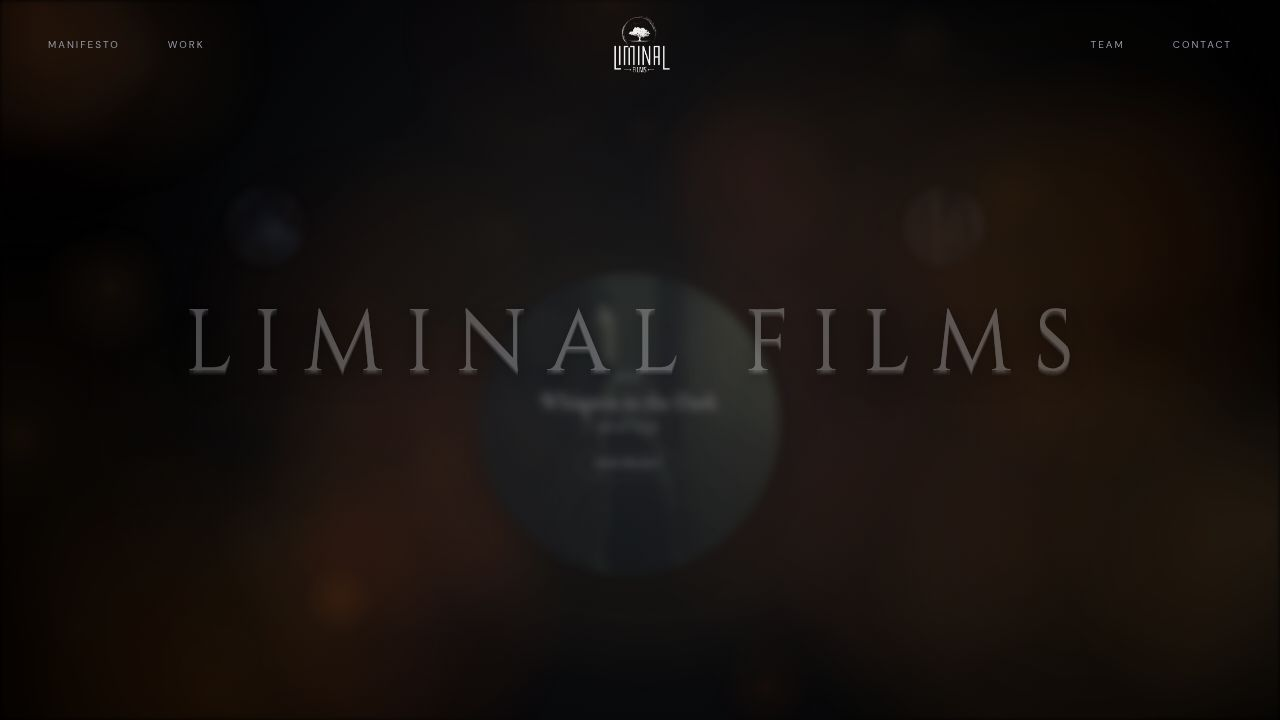
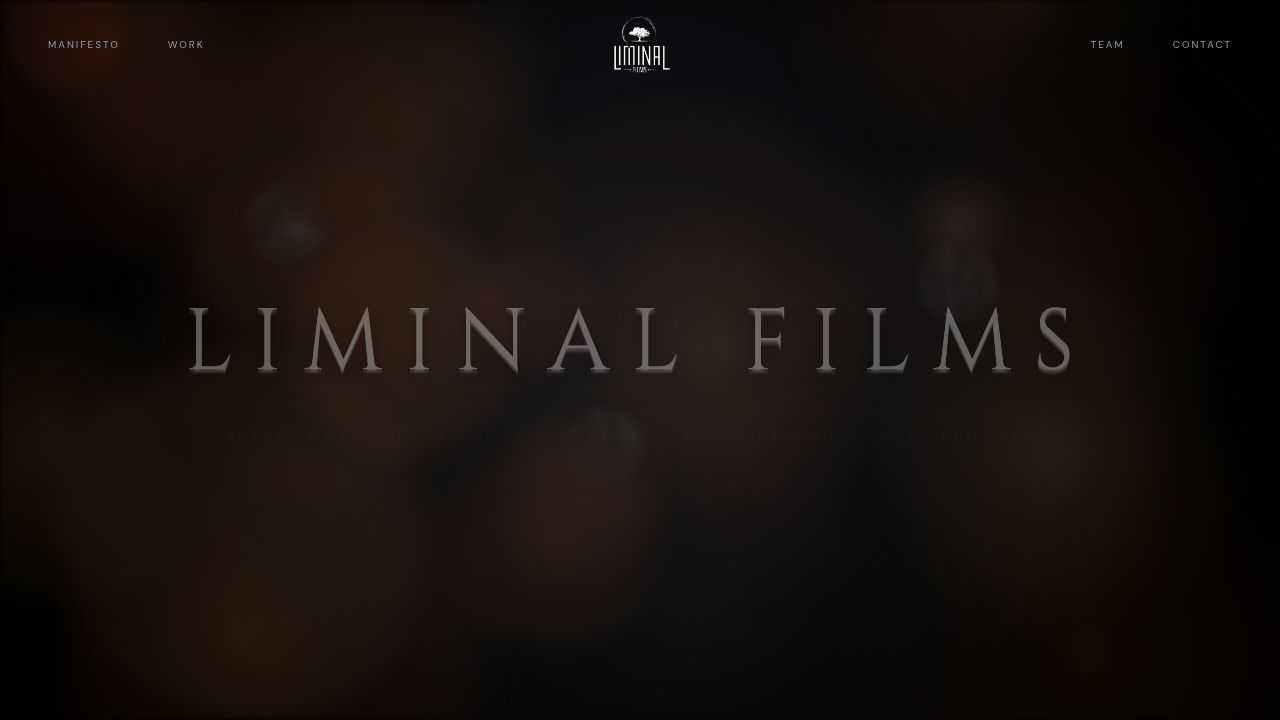
Adjust text width and spacing to improve manifesto readability
Update Manifesto component to increase max-width to 85rem and insert a non-breaking space before "make".

Replit-Commit-Author: Agent
Replit-Commit-Session-Id: ff2ce0f0-7cad-4375-b4a2-53d2b1b7dc89
Replit-Commit-Checkpoint-Type: full_checkpoint
Replit-Commit-Event-Id: 35142235-0d0a-47d3-a7af-257601fc3111
Replit-Commit-Screenshot-Url: https://storage.googleapis.com/screenshot-production-us-central1/48974fb6-187f-4aca-91dc-7ac49f2044b8/ff2ce0f0-7cad-4375-b4a2-53d2b1b7dc89/tgcYbgY
Replit-Helium-Checkpoint-Created: true

diff --git a/client/src/components/Manifesto.tsx b/client/src/components/Manifesto.tsx
@@ -14,7 +14,7 @@ export function Manifesto() {
   return (
     <section ref={ref} id="manifesto" className="py-40 relative z-10 flex items-center min-h-[80vh]">
       <motion.div 
-        className="container mx-auto px-6 md:px-8 max-w-[70rem] relative z-10"
+        className="container mx-auto px-6 md:px-8 max-w-[85rem] relative z-10"
         style={{ y, opacity }}
       >
         <motion.div 
@@ -40,7 +40,7 @@ export function Manifesto() {
             className="text-lg md:text-xl lg:text-2xl font-serif text-foreground leading-relaxed font-medium"
             style={{ textShadow: "0px 1px 2px rgba(0,0,0,1), 0px 4px 12px rgba(0,0,0,0.6)" }}
           >
-            Liminal means a threshold. The point beyond which you are no longer the same person. That's what we're trying to make. Work that changes you. The kind that stays long after it's over.
+            Liminal means a threshold. The point beyond which you are no longer the same person. That's what we're trying to&nbsp;make. Work that changes you. The kind that stays long after it's over.
           </h2>
           <h2 
             className="text-lg md:text-xl lg:text-2xl font-serif text-foreground leading-relaxed font-medium"